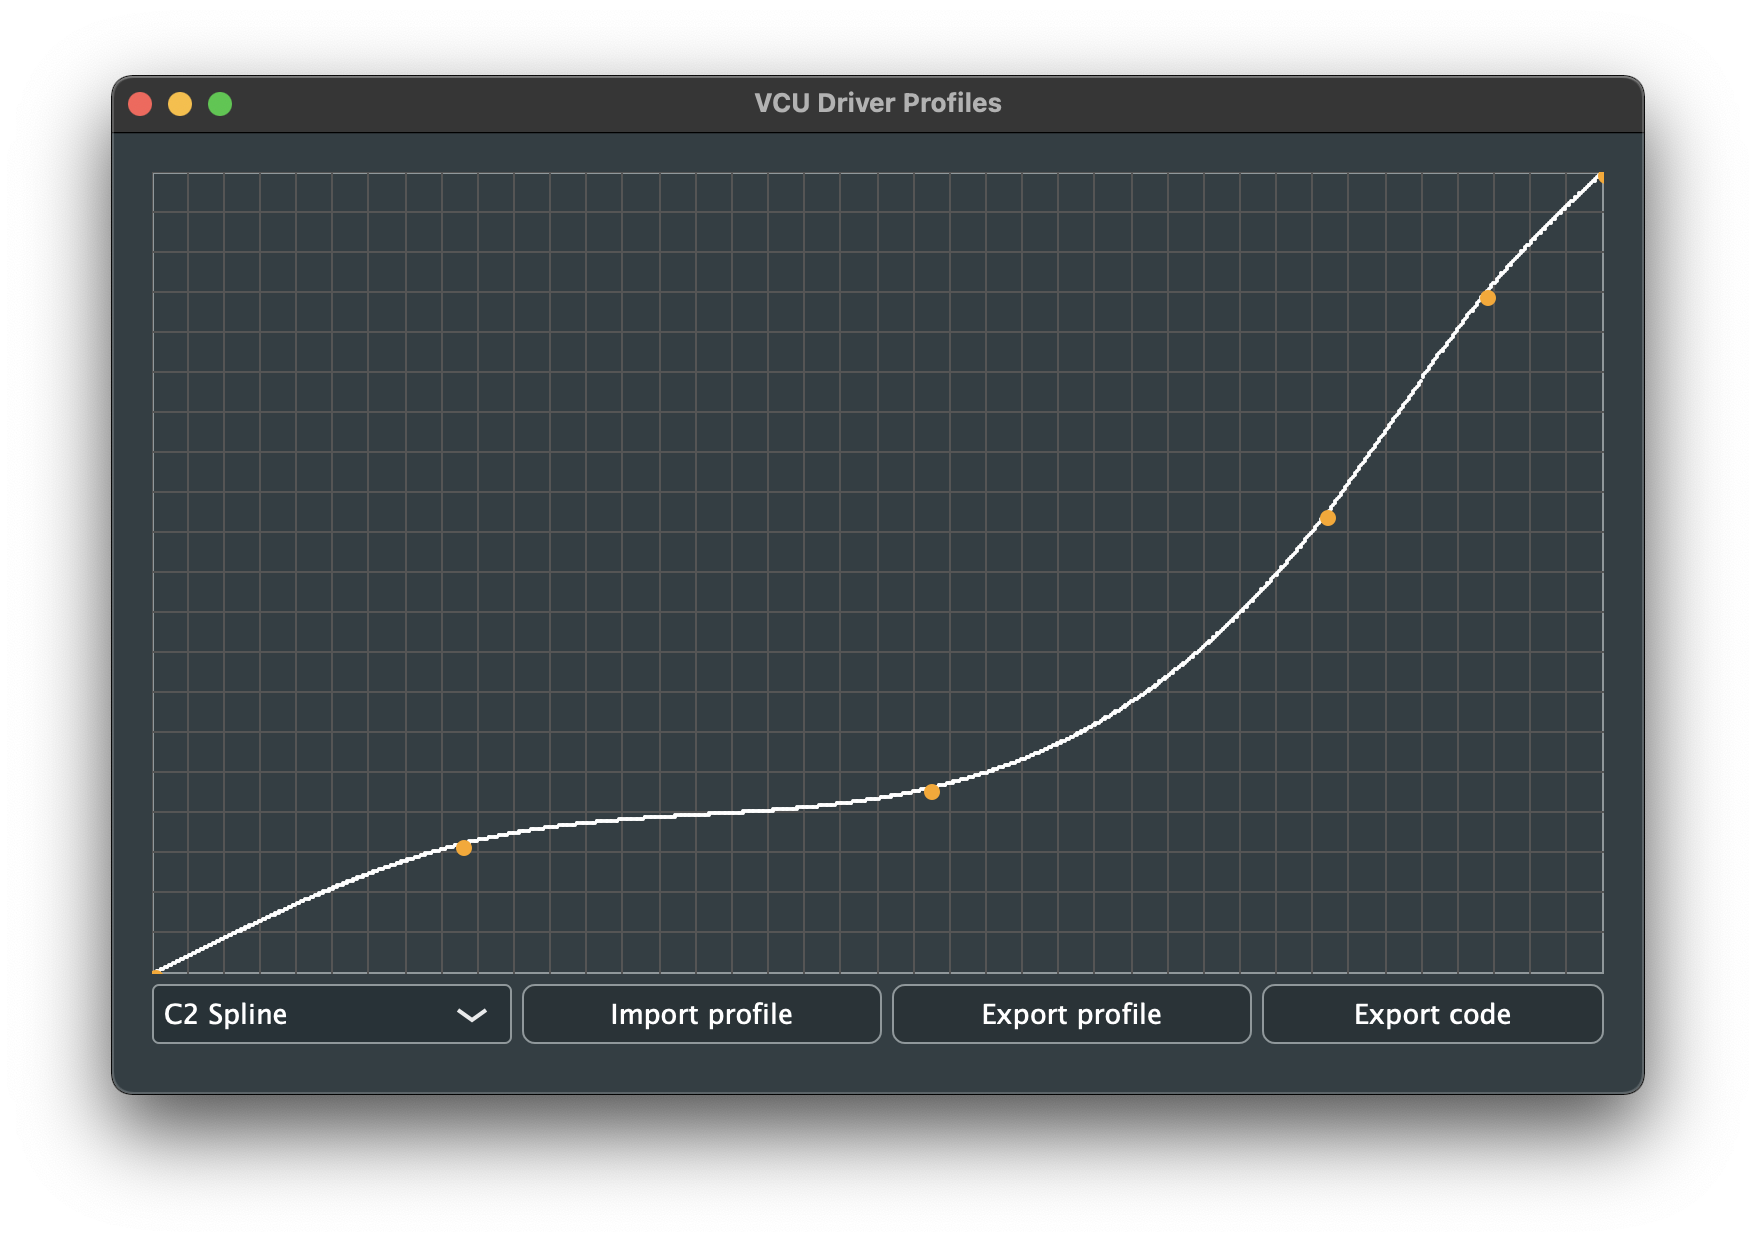
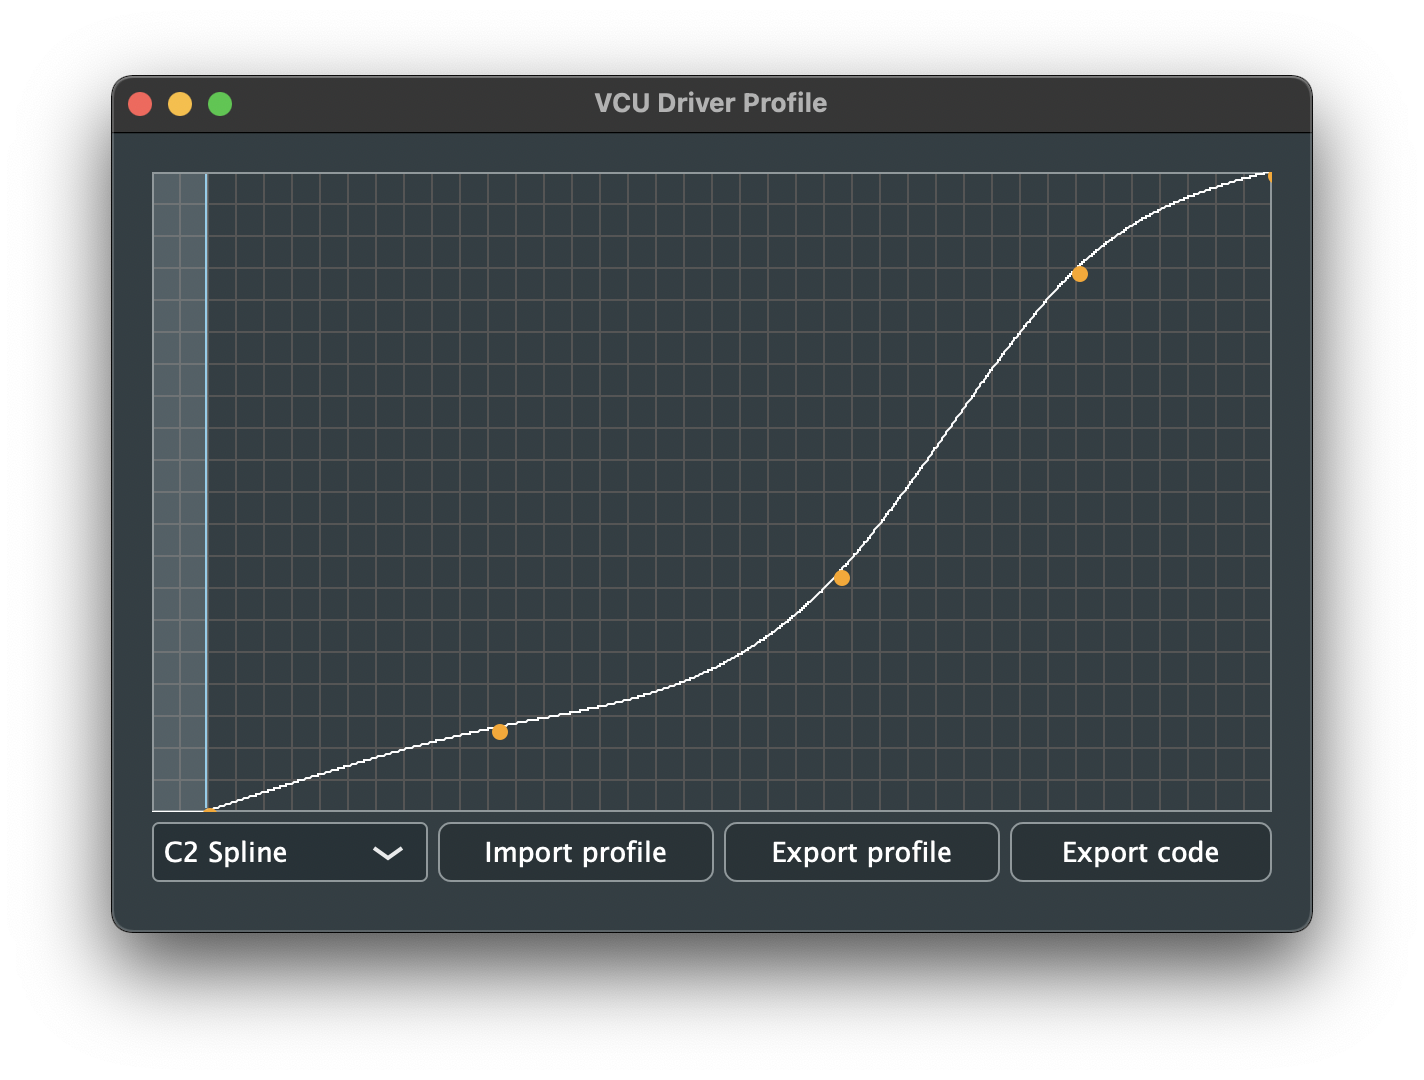
Update README.md and docs images
Update docs images

Update docs images

Update docs images

Update README.md

Update docs images

Update docs images

Update docs images

Update docs images

Update README.md

Update docs images

Update docs images

Update README.md

Update docs images

Changed region(s): [[0.0309, 0.0611, 0.9579, 0.9472]]

diff --git a/src/Source/ThrottleCurveComponent.h b/src/Source/ThrottleCurveComponent.h
@@ -99,7 +99,7 @@ private:
         int x = this->getScreenX() + deadzoneLine.getStartX() - 10;
         int y = juce::Desktop::getMousePosition().getY();
         
-        juce::String tipText = juce::String::toDecimalStringWithSignificantFigures(100 * static_cast<float>(throttleCurve.getPoints().getFirst().getX()) / ThrottleCurve::getInputMax(), 3);
+        juce::String tipText = juce::String::toDecimalStringWithSignificantFigures(100 * static_cast<float>(throttleCurve.getPoints().getFirst().getX()) / ThrottleCurve::getInputMax(), 2);
         tipText += "%";
         toolTip->displayTip(juce::Point<int>(x, y), tipText);
         toolTip->setVisible(true);

diff --git a/README.md b/README.md
@@ -5,6 +5,14 @@ A cross-platform graphical tool for customising and exporting driver profiles fo
   <img src="./docs/C2 Spline.png" width="90%" class="center">
 </p>
 
+## TODO: Installing
+This tool has been compiled for macOS and Windows as a standalone application. The latest releases are available [here](https://github.com/sufst/vcu-driver-profile/releases), or click the links below for a download:
+
+- [macOS](todo)
+- [Windows](todo)
+
+The program can also be compiled and run on Linux using `make` and the JUCE project configuration tool (see: [contributing](#contributing)).
+
 ## TODO: Creating a Profile
 
 Tips for getting a good profile:
@@ -13,6 +21,8 @@ Tips for getting a good profile:
 - Don't place points next to each other with a steep gradient between them - this causes poor interpolation.
 - Make sure no two points have the same input (x-axis) coordinate - you can't map one input to two different outputs. Interpolation algorithms also don't like this because the curve becomes discontinuous (or has an infinite gradient).
 
+A warning will be generated when exporting if there is a major issue with the generated curve.
+
 ## Interpolation Algorithms
 
 <p align="center">
@@ -20,15 +30,26 @@ Tips for getting a good profile:
   &nbsp;&nbsp;&nbsp;&nbsp;&nbsp;&nbsp;&nbsp;&nbsp;
   <img src="./docs/C2 Spline.png" width="45%" class="center">
 </p>
-<!-- &nbsp; <img src="./docs/Hermite Spline.png" width="32%" class="center"> -->
 
-Four algorithms are available for [interpolating](http://paulbourke.net/miscellaneous/interpolation/) between the placed points.
+Four algorithms are available for [interpolating](http://paulbourke.net/miscellaneous/interpolation/) between the placed points which can be selected from the drop-down list.
 1.  Linear (simplest)
 2.  Cosine (useless)
 3.  C2 spline (best)
 4.  Hermite spline (good)
 
-## TODO: Importing and Exporting Profiles
+## Throttle 'Dead-Zone'
+The blue region at the left of the curve defines the 'dead-zone' for the throttle. An input in this region will produce no output torque from the motor. A small dead-zone is required to guarantee that the car will not move when the throttle is fully released as slight mechanical misalignments or voltage measurement errors may still produce a small input to the VCU.
+
+<p align="center">
+  <img src="./docs/Deadzone.gif" width="50%" class="center">
+</p>
+
+## Importing and Exporting Profiles
+Created profiles can be exported to an XML document by pressing the 'export profile' button and choosing a location on your computer to save the file. These files can be imported again and edited further by pressing the 'import profile' button, or by dragging the file into the graph area. The placed points the chosen interpolation method are stored in these documents, but not every point on the interpolated curve as these easily can be re-generated by importing the placed points. The deadzone is defined by the value of the first point and does not need to be stored separately.
+
+<p align="center">
+  <img src="./docs/Profile.gif" width="60%" class="center">
+</p>
 
 ## Exporting Source Code
 The 'export code' button will generate a `uint16_t` C array mapping 2¹⁰ integer input values onto the interpolated curve and copy it to the clipboard. This is used as a look-up table in the VCU to map the scaled 10-bit analogue reading from the throttle to the desired output torque.
